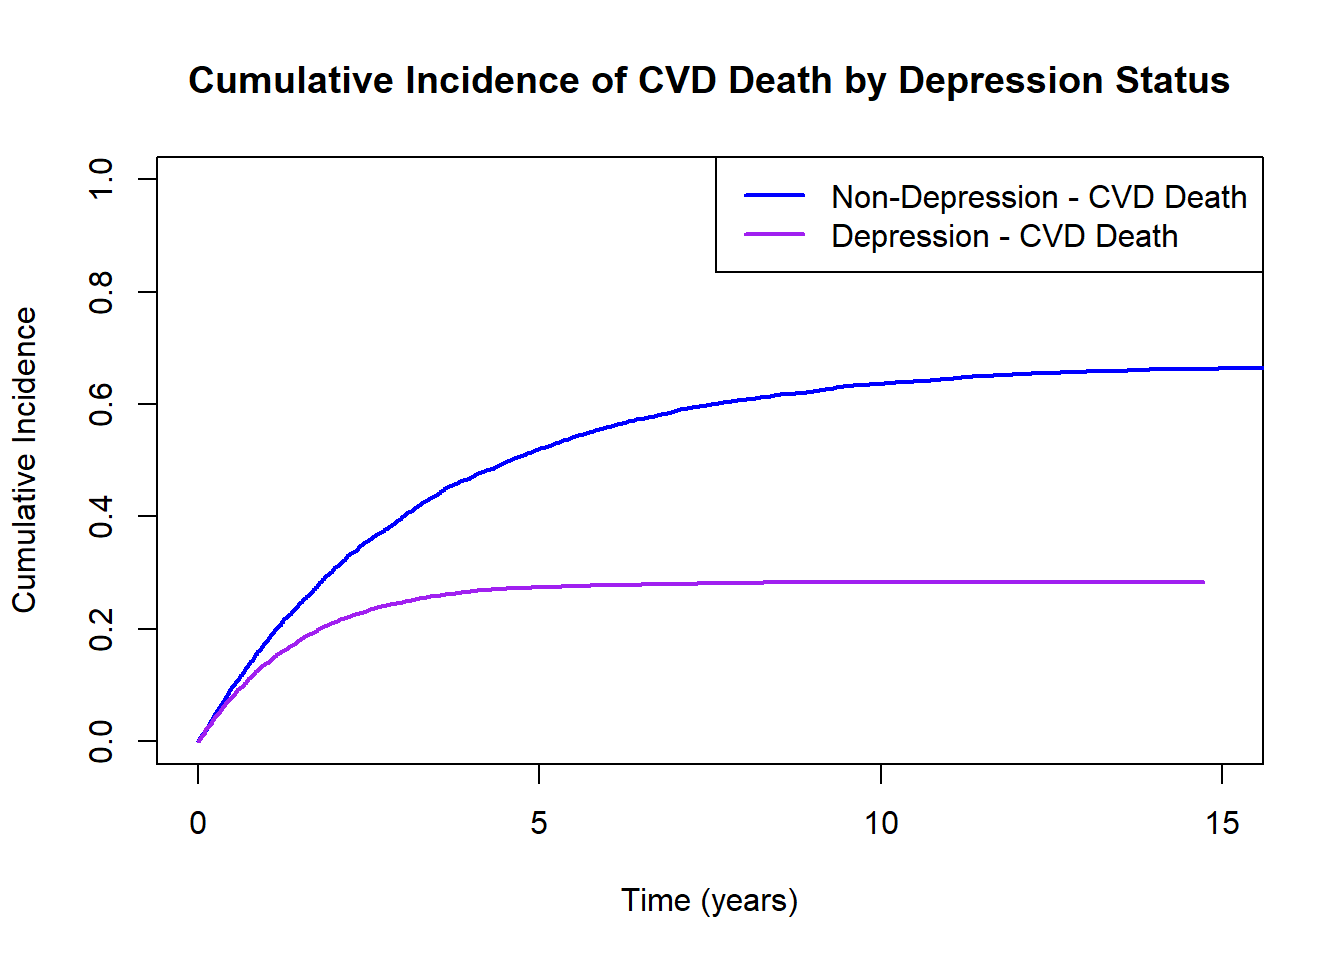
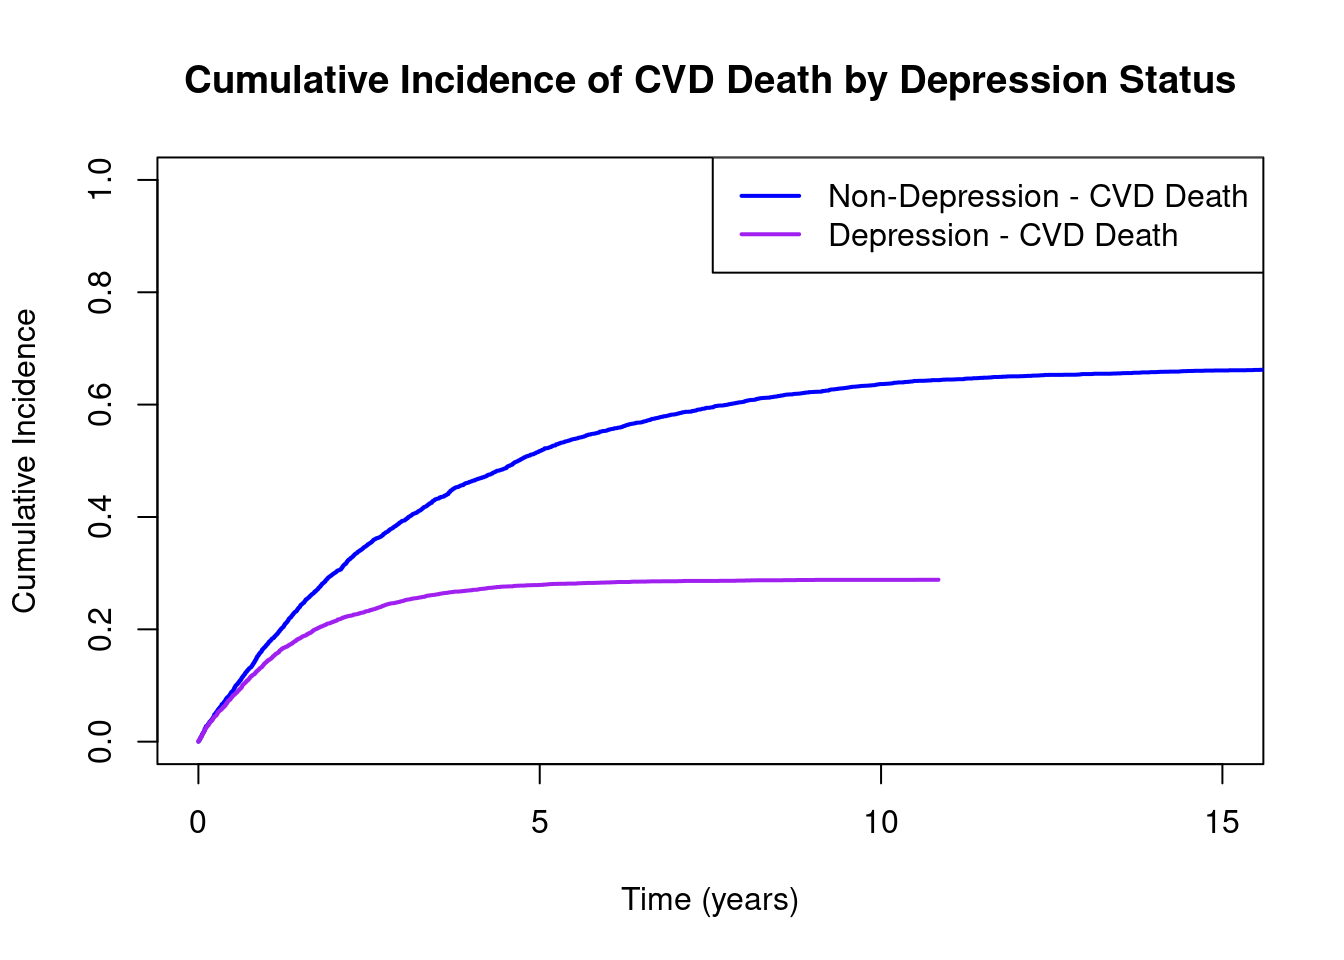
s

diff --git a/docs/posts/2025-01-03-comeptingrisk/index.html b/docs/posts/2025-01-03-comeptingrisk/index.html
@@ -193,7 +193,7 @@ window.Quarto = {
       <div>
       <div class="quarto-title-meta-heading">Author</div>
       <div class="quarto-title-meta-contents">
-               <p><a href="https://github.com/sl-eeper">Hyungwoo Jo</a> </p>
+               <p><a href="https://github.com/hyungwoo-jo">Hyungwoo Jo</a> </p>
             </div>
     </div>
       
@@ -363,21 +363,21 @@ h_k^{sd}(t) = \lim_{\Delta t \to 0} \frac{P(t \leq T &lt; t+\Delta t, \text{Caus
 <span id="cb1-45"><a href="#cb1-45" aria-hidden="true" tabindex="-1"></a><span class="fu">head</span>(sample_data, <span class="at">n=</span> <span class="dv">15</span>)</span></code><button title="Copy to Clipboard" class="code-copy-button"><i class="bi"></i></button></pre></div>
 <div class="cell-output cell-output-stdout">
 <pre><code>   ID Time Event    Sex Depression CVD_time
-1   1 6.16     1   Male         No     6.16
-2   2 6.04     1   Male         No     6.04
-3   3 2.19     2   Male         No     5.60
-4   4 6.98     1 Female         No     6.98
-5   5 1.86     1 Female         No     1.86
-6   6 1.43     1 Female         No     1.43
-7   7 5.14     2   Male         No     6.77
-8   8 3.53     2   Male         No     6.13
-9   9 1.03     1   Male         No     1.03
-10 10 3.02     2 Female         No     3.82
-11 11 3.58     2 Female         No    15.10
-12 12 6.84     2 Female         No    14.91
-13 13 2.87     1 Female         No     2.87
-14 14 3.62     1 Female         No     3.62
-15 15 0.19     1   Male         No     0.19</code></pre>
+1   1 4.96     1 Female         No     4.96
+2   2 0.92     1 Female         No     0.92
+3   3 1.48     1   Male         No     1.48
+4   4 0.09     1   Male         No     0.09
+5   5 0.66     2 Female         No    14.27
+6   6 0.03     1   Male         No     0.03
+7   7 1.00     1   Male         No     1.00
+8   8 0.47     1   Male         No     0.47
+9   9 1.70     1   Male         No     1.70
+10 10 2.36     1 Female         No     2.36
+11 11 8.27     2   Male         No    17.14
+12 12 1.45     1 Female         No     1.45
+13 13 9.71     1 Female         No     9.71
+14 14 0.81     1 Female         No     0.81
+15 15 8.30     1 Female         No     8.30</code></pre>
 </div>
 </div>
 <p>데이터에서 Time은 Death(CVD, non-CVD 포함)가 발생한 시점입니다. R의 cmprsk 패키지를 통해 fine gray method로 분석을 진행하고, 전통적 생존 분석또한 함께 진행해보겠습니다.</p>
@@ -387,24 +387,24 @@ h_k^{sd}(t) = \lim_{\Delta t \to 0} \frac{P(t \leq T &lt; t+\Delta t, \text{Caus
 <span id="cb3-3"><a href="#cb3-3" aria-hidden="true" tabindex="-1"></a>  <span class="fu">mutate</span>(</span>
 <span id="cb3-4"><a href="#cb3-4" aria-hidden="true" tabindex="-1"></a>    <span class="at">Sex_num =</span> <span class="fu">ifelse</span>(Sex <span class="sc">==</span> <span class="st">"Male"</span>, <span class="dv">1</span>, <span class="dv">0</span>),</span>
 <span id="cb3-5"><a href="#cb3-5" aria-hidden="true" tabindex="-1"></a>    <span class="at">Depression_num =</span> <span class="fu">ifelse</span>(Depression <span class="sc">==</span> <span class="st">"Yes"</span>, <span class="dv">1</span>, <span class="dv">0</span>)</span>
-<span id="cb3-6"><a href="#cb3-6" aria-hidden="true" tabindex="-1"></a>  )</span>
+<span id="cb3-6"><a href="#cb3-6" aria-hidden="true" tabindex="-1"></a>  ) </span>
 <span id="cb3-7"><a href="#cb3-7" aria-hidden="true" tabindex="-1"></a>surv_object_csh <span class="ot">&lt;-</span> <span class="fu">Surv</span>(<span class="at">time =</span> sample_data<span class="sc">$</span>Time, <span class="at">event =</span> sample_data<span class="sc">$</span>Event <span class="sc">==</span> <span class="dv">1</span>)</span>
 <span id="cb3-8"><a href="#cb3-8" aria-hidden="true" tabindex="-1"></a>cox_csh <span class="ot">&lt;-</span> <span class="fu">coxph</span>(surv_object_csh <span class="sc">~</span> Depression_num, <span class="at">data =</span> sample_data)</span>
 <span id="cb3-9"><a href="#cb3-9" aria-hidden="true" tabindex="-1"></a><span class="fu">cox2.display</span>(cox_csh)</span></code><button title="Copy to Clipboard" class="code-copy-button"><i class="bi"></i></button></pre></div>
 <div class="cell-output cell-output-stdout">
 <pre><code>$table
                HR(95%CI)          P value
-Depression_num "0.24 (0.18,0.32)" "0.152"
+Depression_num "1.02 (0.95,1.09)" "0.562"
 
 $metric
-                       [,1] [,2]
-&lt;NA&gt;                     NA   NA
-No. of observations 10000.0   NA
-No. of events        4772.0   NA
-AIC                 77007.7   NA
+                        [,1] [,2]
+&lt;NA&gt;                      NA   NA
+No. of observations 10000.00   NA
+No. of events        4784.00   NA
+AIC                 77070.23   NA
 
 $caption
-[1] "Cox model on time ('NA, surv_object_csh, character(0)') to event ('surv_object_csh')"</code></pre>
+[1] "Cox model on time ('NA') to event ('NA')"</code></pre>
 </div>
 </div>
 <p>exp(coef= beta)즉 Hazard ratio가 1이고 p-value가 0.936으로, 우울증 여부가 CVD-death에 영향을 미치지 않는 다는 것을 알 수 있습니다. 이는 데이터를 만들때의 가정과 동일하기 때문에 전통적 생존분석은 이를 잘 반영한다는 것을 알 수 있습니다. 이번엔 competing risk를 고려한 fine gray method로 분석을 해보겠습니다.</p>
@@ -421,15 +421,15 @@ $caption
 Call:
 crr(ftime = ftime, fstatus = fstatus, cov1 = covariates)
 
-                coef exp(coef) se(coef)   z p-value
-Depression_num -1.06     0.345   0.0333 -32       0
+                coef exp(coef) se(coef)     z p-value
+Depression_num -1.03     0.357   0.0331 -31.1       0
 
                exp(coef) exp(-coef)  2.5% 97.5%
-Depression_num     0.345        2.9 0.323 0.368
+Depression_num     0.357        2.8 0.335 0.381
 
 Num. cases = 10000
-Pseudo Log-likelihood = -41956 
-Pseudo likelihood ratio test = 1236  on 1 df,</code></pre>
+Pseudo Log-likelihood = -42093 
+Pseudo likelihood ratio test = 1166  on 1 df,</code></pre>
 </div>
 </div>
 <p>exp(coef) 즉 subdistribution hazard ratio가 0.363이고, p value 가 &lt;0.01임으로 우울증이 있는 사람에게는 CVD-death가 덜 발생한다고 해석할 수 있습니다. 우울증 여부가 CVD-death에 영향을 미치지 않게 데이터를 만들었는데 왜 이런 결과가 나왔는지 그리고 서로 다르게 나온 두 결과를 각각 어떻게 해석해야 되는지를 알아보겠습니다. 우울증 환자와 비 우울증 환자에서 CVD-death에 대한 CIF를 한번 그려보도록 하겠습니다.</p>

diff --git a/docs/index.html b/docs/index.html
@@ -223,7 +223,7 @@ window.Quarto = {
   </div>
 </div>
 <div class="list quarto-listing-default">
-<div class="quarto-post image-right" data-index="0" data-categories="c3RhdGlzdGljcw==" data-listing-date-sort="1750950000000" data-listing-file-modified-sort="1751093259321" data-listing-date-modified-sort="NaN" data-listing-reading-time-sort="17" data-listing-word-count-sort="3288">
+<div class="quarto-post image-right" data-index="0" data-categories="c3RhdGlzdGljcw==" data-listing-date-sort="1750950000000" data-listing-file-modified-sort="1751094678751" data-listing-date-modified-sort="NaN" data-listing-reading-time-sort="17" data-listing-word-count-sort="3288">
 <div class="thumbnail">
 <p><a href="./posts/2025-06-27-causal/index.html" class="no-external"></a></p><a href="./posts/2025-06-27-causal/index.html" class="no-external">
 <p><img loading="lazy" src="./posts/2025-06-27-causal/img/image.png" class="thumbnail-image"></p>
@@ -256,7 +256,7 @@ Hyungwoo Jo
 </a>
 </div>
 </div>
-<div class="quarto-post image-right" data-index="1" data-categories="c3RhdGlzdGljcw==" data-listing-date-sort="1735830000000" data-listing-file-modified-sort="1751015379970" data-listing-date-modified-sort="NaN" data-listing-reading-time-sort="11" data-listing-word-count-sort="2041">
+<div class="quarto-post image-right" data-index="1" data-categories="c3RhdGlzdGljcw==" data-listing-date-sort="1735830000000" data-listing-file-modified-sort="1751094670634" data-listing-date-modified-sort="NaN" data-listing-reading-time-sort="11" data-listing-word-count-sort="2042">
 <div class="thumbnail">
 <p><a href="./posts/2025-01-03-comeptingrisk/index.html" class="no-external"></a></p><a href="./posts/2025-01-03-comeptingrisk/index.html" class="no-external">
 <p><img loading="lazy" src="./posts/2025-01-03-comeptingrisk/img/image.png" class="thumbnail-image"></p>
